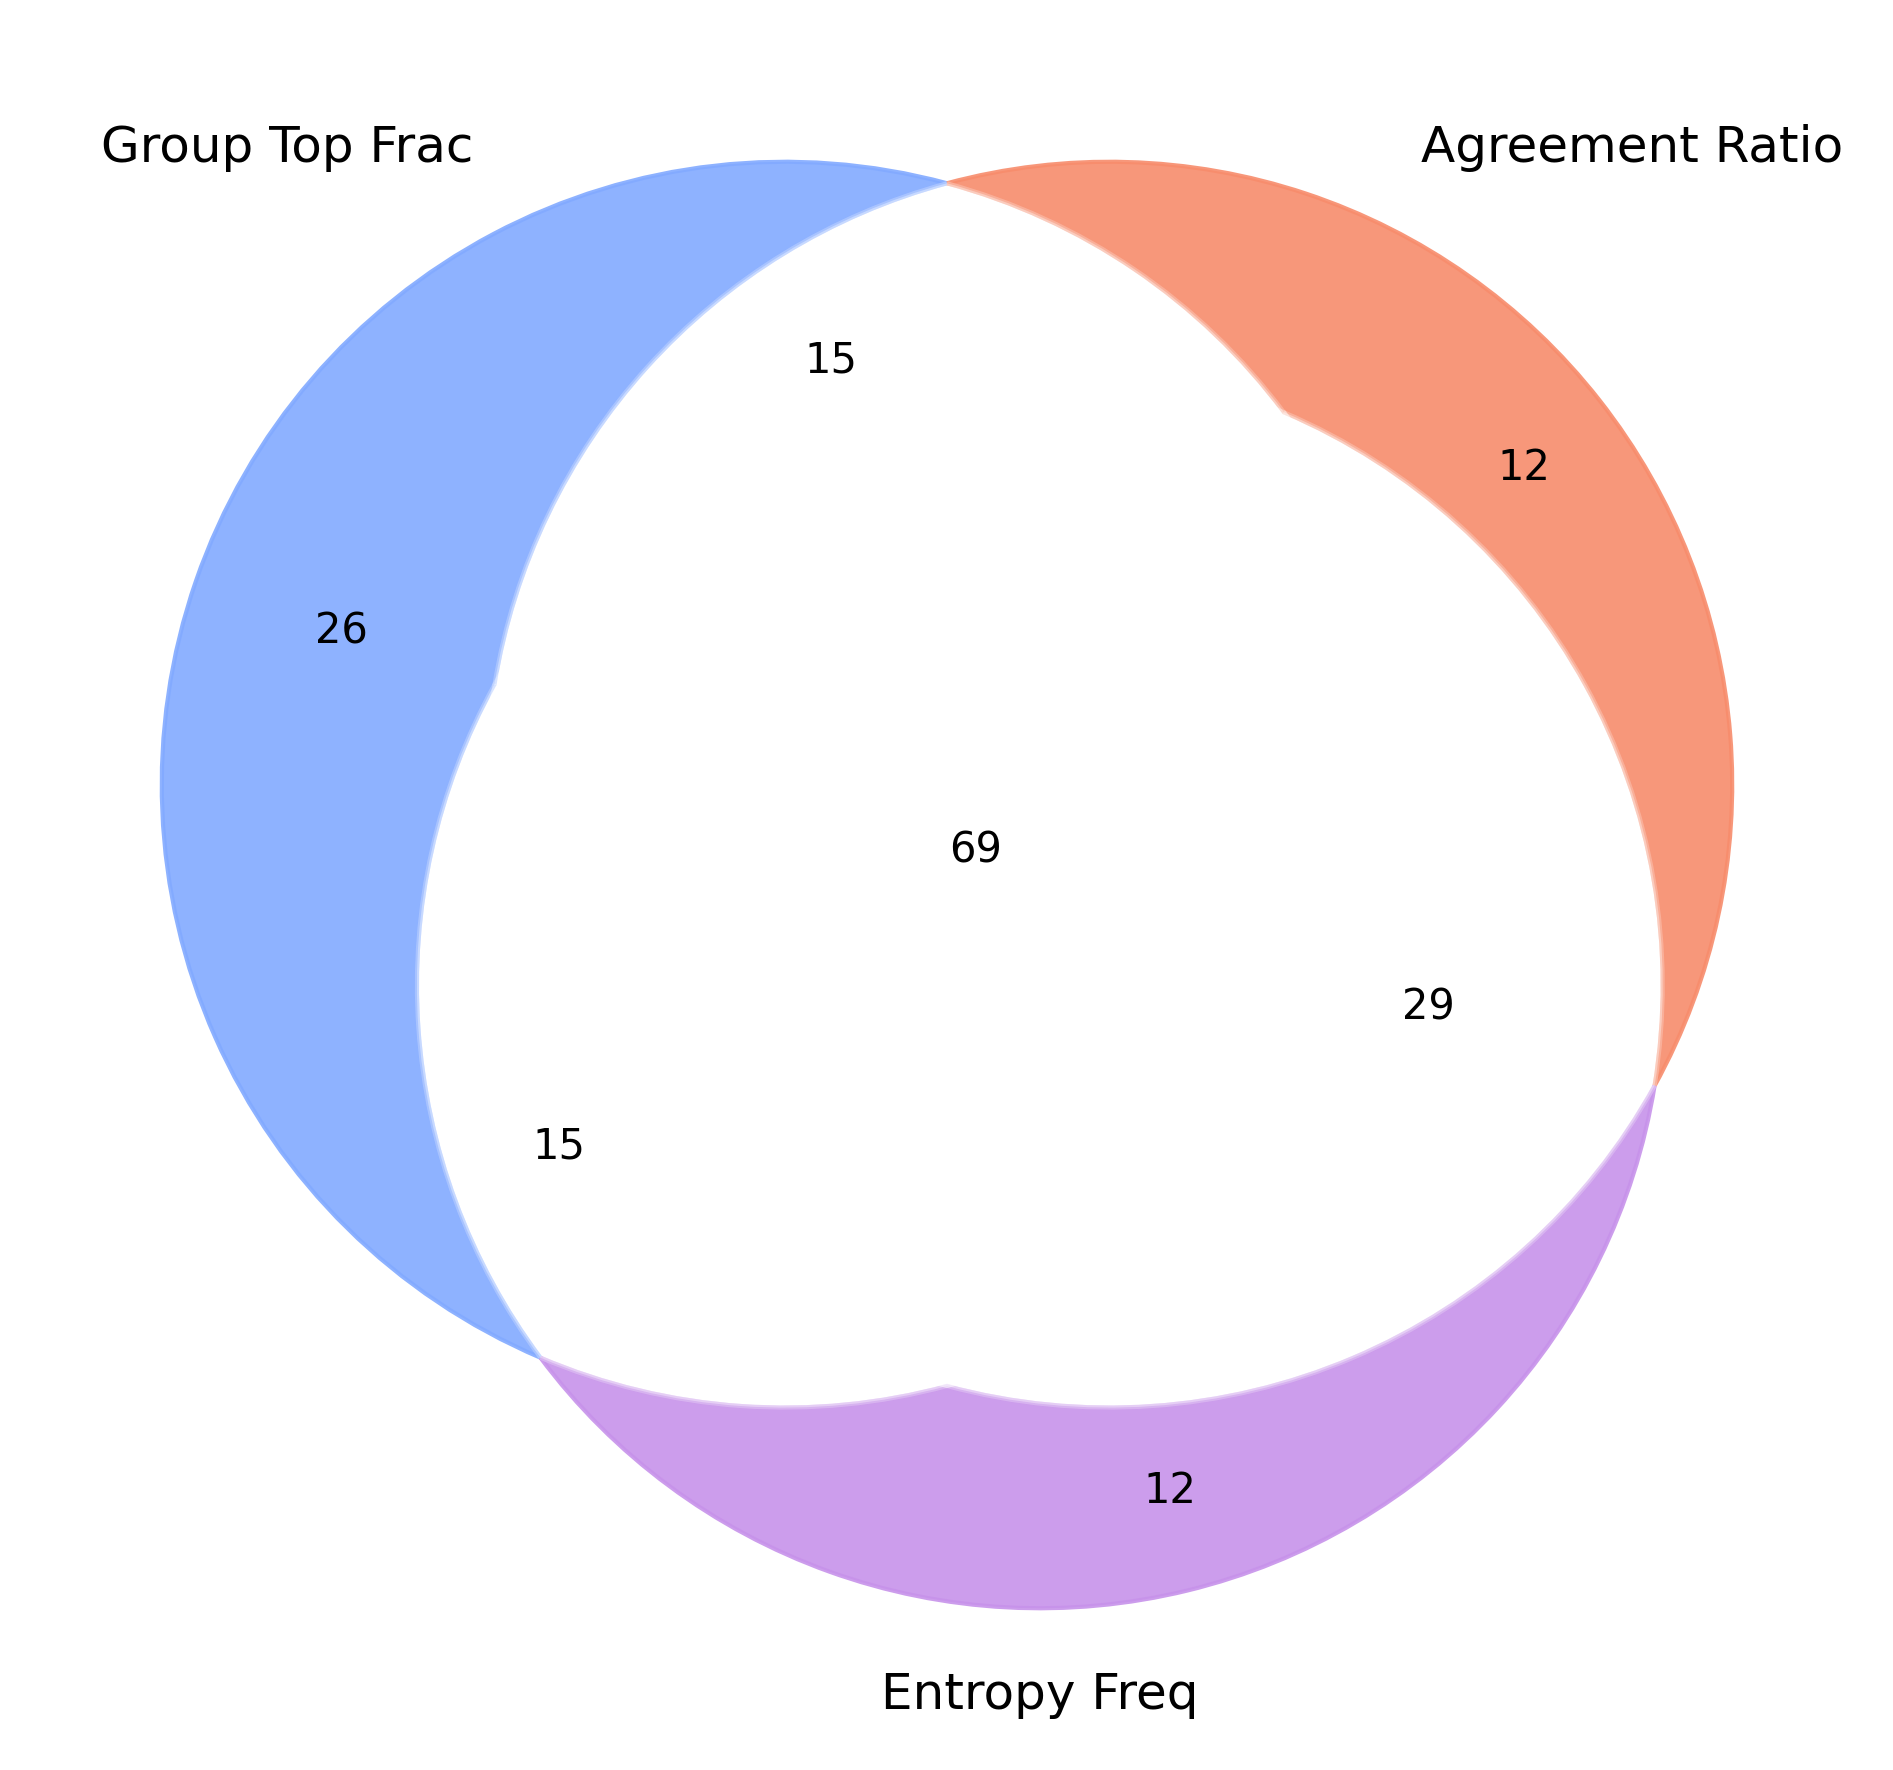
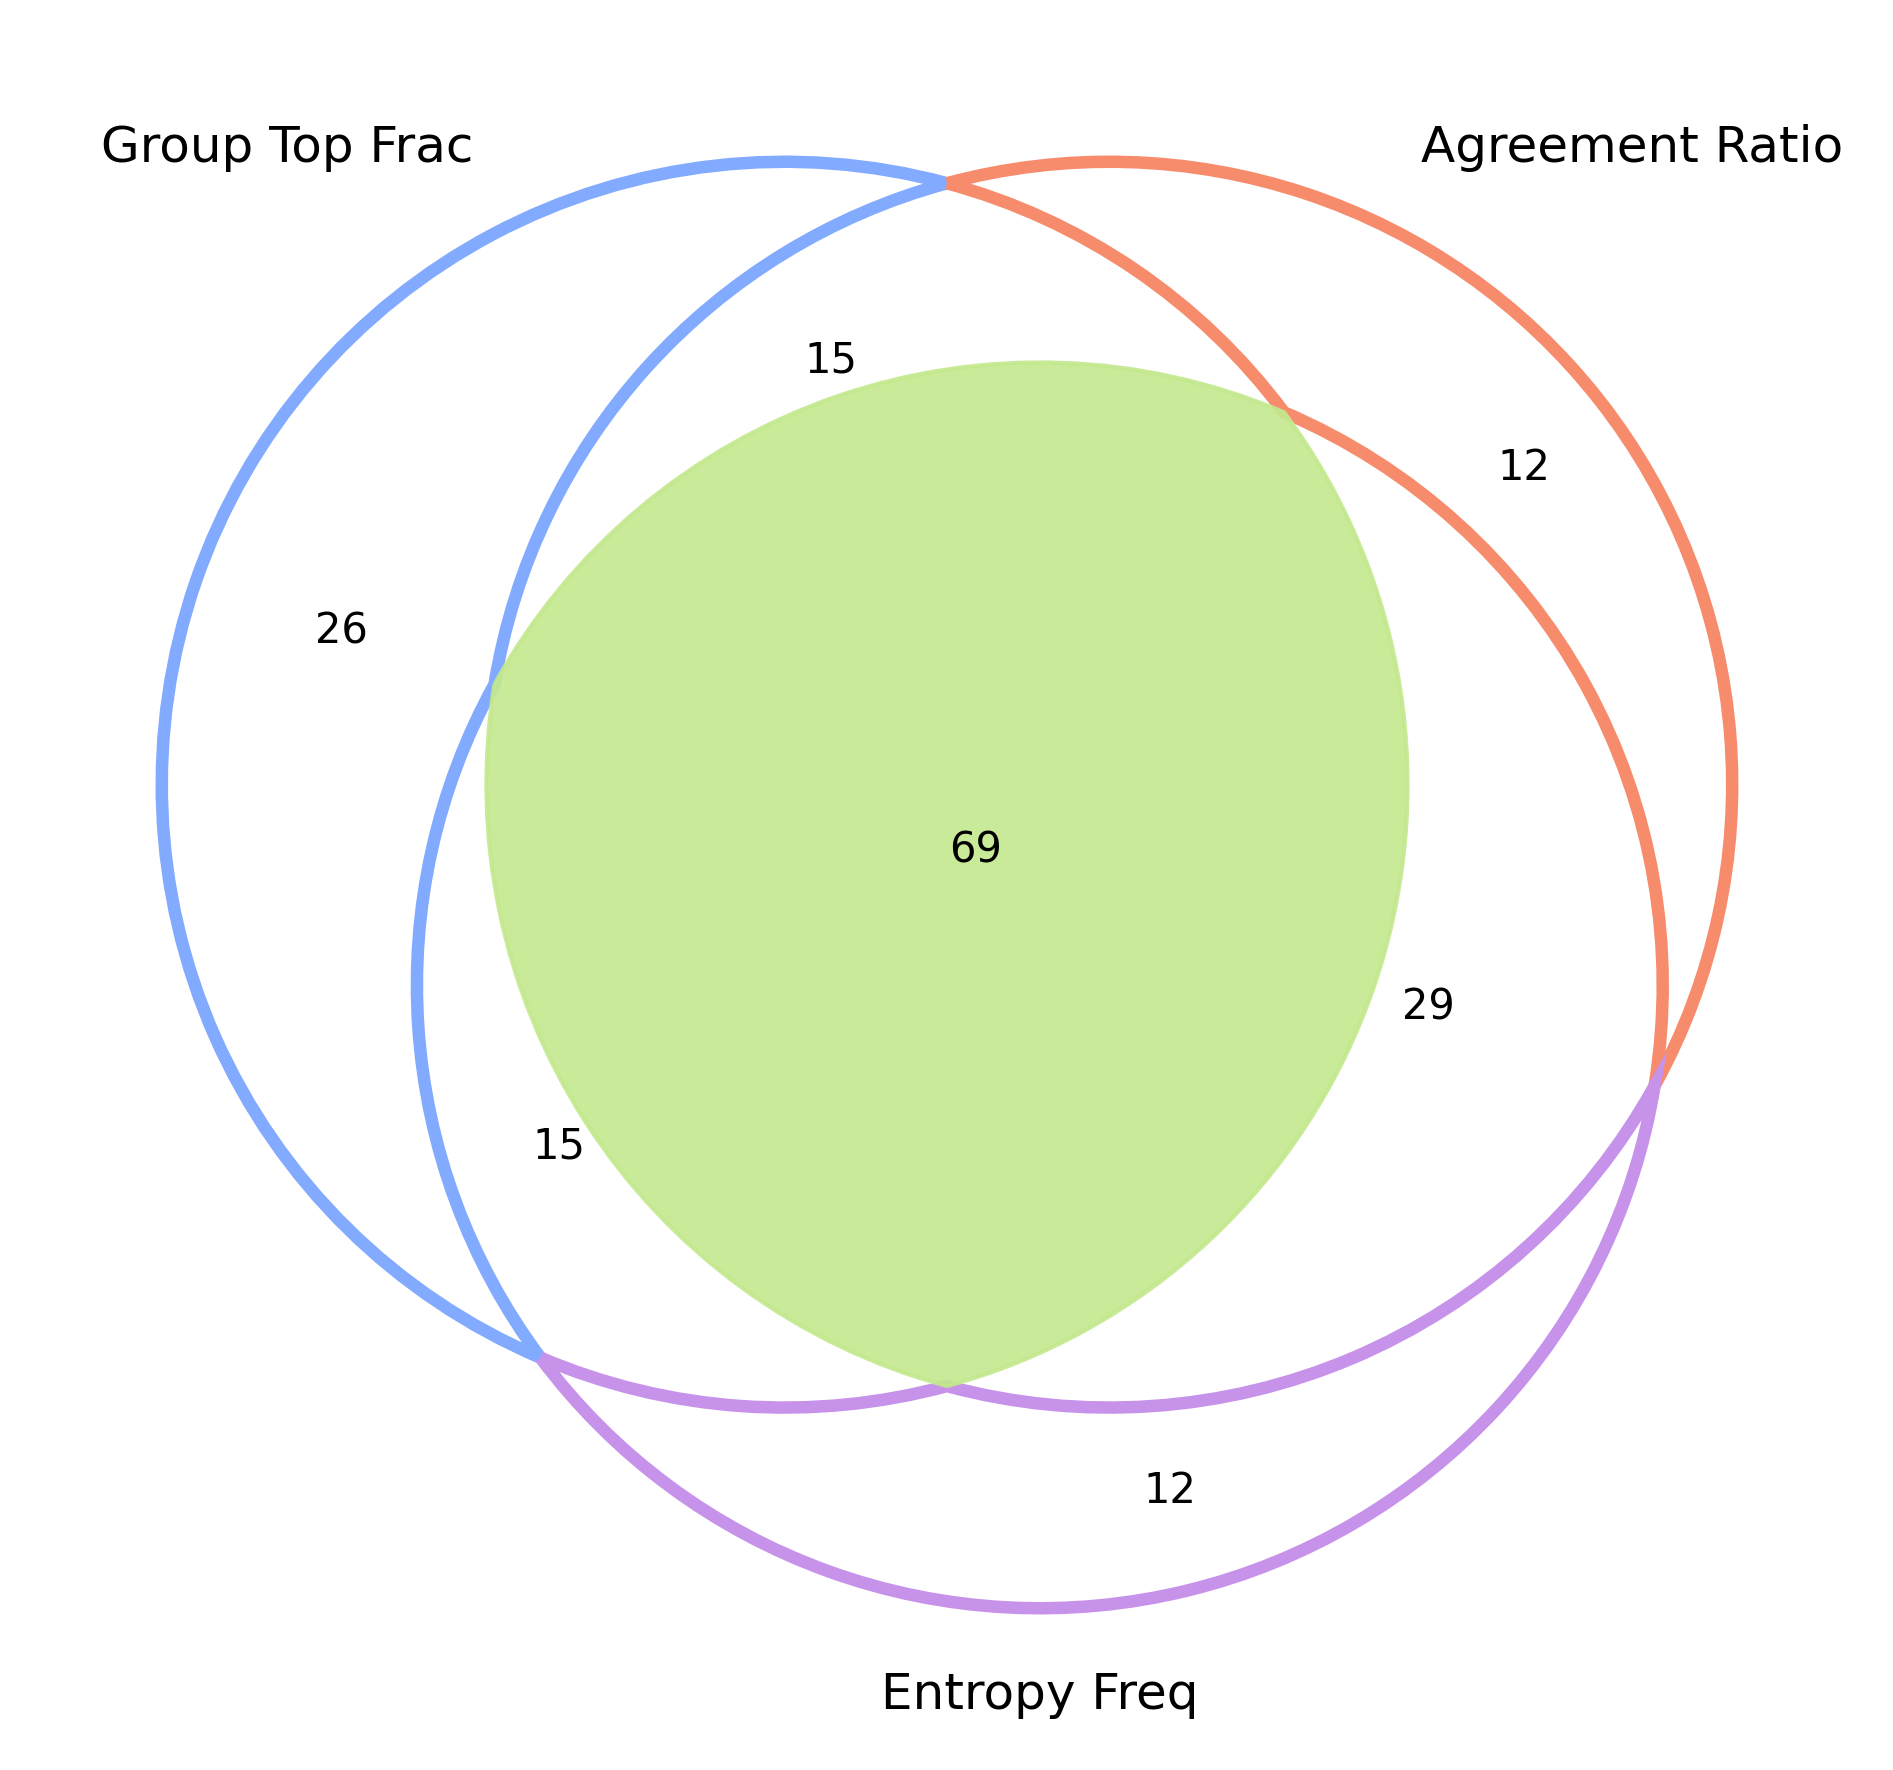
edges and filled green

diff --git a/scripts/create_selection_figures.py b/scripts/create_selection_figures.py
@@ -55,27 +55,37 @@ def create_complementarity_analysis():
         ax=ax,
     )
 
-    # Use project colors only for individual regions, remove colors from overlaps
-    colors = {
+    # Color individual regions with project colors - edges only, no fill
+    individual_colors = {
         "100": BLUE,  # Group Top Frac only
         "010": ORANGE,  # Agreement Ratio only
         "001": PURPLE,  # Entropy Freq only
-        # Remove colors from overlaps - they'll be default/white
     }
 
-    for region_id, color in colors.items():
+    for region_id, color in individual_colors.items():
         patch = venn.get_patch_by_id(region_id)
         if patch:
-            patch.set_color(color)
-            patch.set_alpha(0.9)
+            patch.set_facecolor("none")  # No fill
+            patch.set_edgecolor(color)  # Colored edge
+            patch.set_linewidth(3)  # Thicker edge for visibility
+            patch.set_alpha(1.0)
 
-    # Make overlap regions white/transparent
-    overlap_regions = ["110", "101", "011", "111"]
-    for region_id in overlap_regions:
+    # Handle overlap regions with subtle patterns/colors
+    # Three-way overlap (ensemble) - keep GREEN
+    patch_111 = venn.get_patch_by_id("111")
+    if patch_111:
+        patch_111.set_color(GREEN)
+        patch_111.set_alpha(0.9)
+
+    # Two-way overlaps - remove color/fill, keep transparent
+    two_way_overlaps = ["110", "101", "011"]  # Simplified list
+
+    for region_id in two_way_overlaps:
         patch = venn.get_patch_by_id(region_id)
         if patch:
-            patch.set_color("white")
-            patch.set_alpha(0.3)
+            patch.set_facecolor("none")  # No fill
+            patch.set_edgecolor("none")  # No edge
+            patch.set_alpha(0.0)  # Fully transparent
 
     # Remove axes and make clean
     ax.set_frame_on(False)
